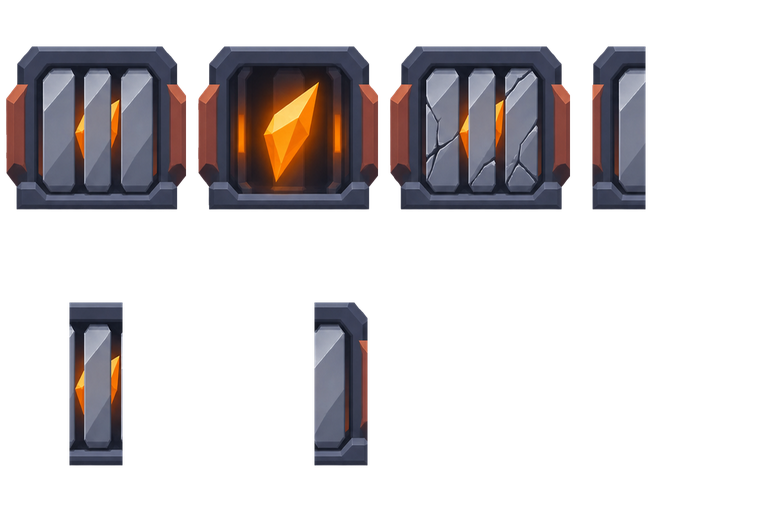
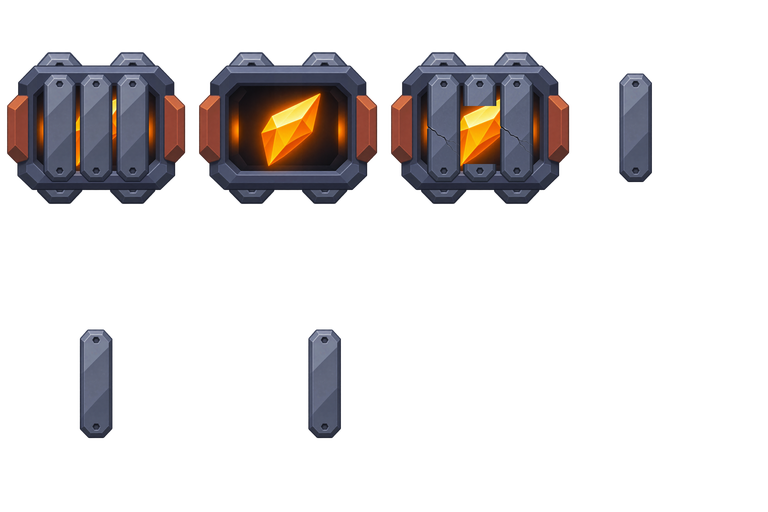
[dev] Forja-Mãe v3 integrada (DF100–DF108, DF110–DF112) e paliativos da v2 retirados
Verificação (tools/auditar_forja_v3.py, relatório em docs/revisao_geral/auditoria_forja_v3.md):
SHA dos 12 mestres e dos 12 WebP confere com o atlas e os ENTREGA_v3; medidas e grades certas;
54 quadros ocupados e 17 células vazias, como a entrega diz; os cinco vãos do DF100 têm alfa zero
nas medidas exatas e as constantes LENS/CHEST/HATCH/GRATE já batiam com o mundo calculado;
cada *_jogo_v3.webp é o mestre reduzido a 50 % (diferença 0). Ressalvas: DF107 quadros 1 e 2 quase
iguais (a luz do aviso tem ~4 px no jogo) e DF108 com pulsos 1/2/6 e 3/4/5 muito parecidos.

Integração:
- import_deserto_v2_folhas.py usa os _v3.png da Forja (mesmas grades da v2);
- DF103: rodas em cima na v3, sai o flip_v do carrinho;
- DF102: peito na escala da entrega (400/358) e as placas soltas na origem do peito, sem o
  afastamento extra de ±26 px (as células da v3 já trazem o afastamento);
- DF105: topo real do bloco a (198 − 96) × K = 22 px da junta (era 35: o Autômato afundava 13 px
  na chapa); a âncora do Ímã fica na placa ciano da arte (junta + 11,6) e o puxão termina 11,6 px
  acima dela (GrappleHook.drop), pousando no bloco como antes;
- DF106: núcleo no encaixe (junta + 4, escala 1) e área de dano de 110 × 60 de junta − 36 a + 24,
  para o rebite de quem está de pé no bloco continuar acertando à queima-roupa;
- DF107: usa o quadro 'abrindo' antes do 'aberta'; a tinta vermelha do aviso fica (paliativo,
  pedido REV-03), porque a luz da v3 é pequena demais na escala do jogo;
[…]

Changed region(s): [[0.0, 0.0625, 0.875, 0.4375], [0.0625, 0.5625, 0.1875, 0.9375], [0.375, 0.5625, 0.5, 0.9375]]

diff --git a/tools/import_deserto_v2_folhas.py b/tools/import_deserto_v2_folhas.py
@@ -9,6 +9,9 @@ uso: python tools/import_deserto_v2_folhas.py
 - Peças das máquinas (DF222–DF225): cópia byte a byte para assets/deserto/v2/ (2×, escala 0,5 no jogo).
 - O SHA-256 é conferido contra o ENTREGA_v2 quando ele traz o valor; sem valor, o script avisa.
 - Sempre o arquivo _v2 quando existe; DF64b e DF69c só chegaram com o nome sem sufixo.
+- Forja-Mãe (DF100–DF108, DF110–DF112): a v3 (main ef2d879, 26/11/2026), com o nome completo `_v3.png`
+  (o import_fase2.py antigo pega o primeiro PNG com o prefixo e não serve para a Forja). A redução a 50 %
+  dá o mesmo resultado que os *_jogo_v3.webp da entrega (conferido por tools/auditar_forja_v3.py).
 """
 import hashlib
 import re
@@ -35,11 +38,11 @@ FOLHAS = {
     "DF94": "DF94_automato_arranque_v2.png", "DF95": "DF95_automato_dano_v2.png",
     "DF96": "DF96_automato_derrota_v2.png", "DF97": "DF97_automato_braco_v2.png", "DF98": "DF98_feixe_ima_v2.png",
     "DF99": "DF99_pulso_magnetico_v2.png",
-    "DF100": "DF100_forja_corpo_v2.png", "DF101": "DF101_forja_lente_v2.png", "DF102": "DF102_forja_peito_v2.png",
-    "DF103": "DF103_forja_carrinho_v2.png", "DF104": "DF104_forja_segmento_v2.png",
-    "DF105": "DF105_forja_martelo_v2.png", "DF106": "DF106_forja_nucleo_pistao_v2.png",
-    "DF107": "DF107_forja_escotilha_v2.png", "DF108": "DF108_forja_grade_v2.png", "DF110": "DF110_forja_feixe_v2.png",
-    "DF111": "DF111_forja_carga_lente_v2.png", "DF112": "DF112_forja_explosao_nucleo_v2.png",
+    "DF100": "DF100_forja_corpo_v3.png", "DF101": "DF101_forja_lente_v3.png", "DF102": "DF102_forja_peito_v3.png",
+    "DF103": "DF103_forja_carrinho_v3.png", "DF104": "DF104_forja_segmento_v3.png",
+    "DF105": "DF105_forja_martelo_v3.png", "DF106": "DF106_forja_nucleo_pistao_v3.png",
+    "DF107": "DF107_forja_escotilha_v3.png", "DF108": "DF108_forja_grade_v3.png", "DF110": "DF110_forja_feixe_v3.png",
+    "DF111": "DF111_forja_carga_lente_v3.png", "DF112": "DF112_forja_explosao_nucleo_v3.png",
 }
 OBJETOS = {"DF210_objetos": ("DF210", "DF210_objetos.png"), "DF210_coletaveis": ("DF210", "DF210_coletaveis.png"),
            # a ponta da DF98 v2 é um ímã pequeno, não a garra de luz: o jogo usa a ponta da v1 até a correção

diff --git a/docs/revisao_geral/auditoria_forja_v3.md b/docs/revisao_geral/auditoria_forja_v3.md
@@ -1,0 +1,45 @@
+# Auditoria da Forja-Mãe v3 (gerada por `tools/auditar_forja_v3.py`)
+
+Total: 54 quadros ocupados e 17 células vazias (a entrega diz 54 e 17).
+
+| ID | medidas | SHA mestre (atlas / ENTREGA) | quadros | WebP = mestre/2 | borda | soltos | quadros iguais | dif. entre quadros seguidos |
+|---|---|---|---|---|---|---|---|---|
+| DF100 | 2048x2048 | ok / ok | 1 ocup. · 0 vaz. | ok · rgb 0.0 · alfa 0.00 · desloc 0.00 | — | — | — | [] |
+| DF101 | 1536x1024 | ok / ok | 4 ocup. · 4 vaz. | ok · rgb 0.0 · alfa 0.00 · desloc 0.00 | — | — | — | [9.29, 17.45, 9.44] |
+| DF102 | 1536x1024 | ok / ok | 6 ocup. · 2 vaz. | ok · rgb 0.0 · alfa 0.00 · desloc 0.00 | — | — | — | [24.72, 18.67, 108.51, 133.45, 133.45] |
+| DF103 | 1024x512 | ok / ok | 1 ocup. · 0 vaz. | ok · rgb 0.0 · alfa 0.00 · desloc 0.00 | — | — | — | [] |
+| DF104 | 1024x512 | ok / ok | 1 ocup. · 0 vaz. | ok · rgb 0.0 · alfa 0.00 · desloc 0.00 | — | — | — | [] |
+| DF105 | 2048x1024 | ok / ok | 4 ocup. · 0 vaz. | ok · rgb 0.0 · alfa 0.00 · desloc 0.00 | — | — | — | [9.23, 24.33, 16.33] |
+| DF106 | 1536x1024 | ok / ok | 3 ocup. · 5 vaz. | ok · rgb 0.0 · alfa 0.00 · desloc 0.00 | — | — | — | [18.43, 42.33] |
+| DF107 | 1536x1024 | ok / ok | 4 ocup. · 4 vaz. | ok · rgb 0.0 · alfa 0.00 · desloc 0.00 | — | — | 1=2 (0.08) | [0.49, 9.98, 10.76] |
+| DF108 | 1536x1024 | ok / ok | 8 ocup. · 0 vaz. | ok · rgb 0.0 · alfa 0.00 · desloc 0.00 | — | — | 1=2 (0.47), 1=6 (0.32), 3=5 (0.40), 4=5 (0.29) | [2.39, 3.42, 2.74, 1.47, 4.12, 26.19, 29.13] |
+| DF110 | 1024x512 | ok / ok | 8 ocup. · 0 vaz. | ok · rgb 0.0 · alfa 0.00 · desloc 0.00 | — | — | — | [18.33, 17.19, 17.19, 151.12, 81.54, 82.28, 79.03] |
+| DF111 | 1536x1024 | ok / ok | 6 ocup. · 2 vaz. | ok · rgb 0.0 · alfa 0.00 · desloc 0.00 | — | — | — | [75.88, 57.35, 69.4, 38.06, 75.0] |
+| DF112 | 1536x1024 | ok / ok | 8 ocup. · 0 vaz. | ok · rgb 0.0 · alfa 0.00 · desloc 0.00 | — | 4:5 [(230, 134), (306, 136), (50, 156), (83, 365), (294, 369)]; 5:2 [(278, 149), (109, 363)]; 6:5 [(262, 167), (111, 171), (112, 338), (284, 338), (260, 342)]; 7:1 [(271, 293)] | — | [101.2, 91.46, 75.08, 85.76, 57.27, 81.29, 103.8] |
+
+## Encaixes do corpo DF100
+
+| vão | centro (arte) | pedido | medida real no centro | alfa ≠ 0 dentro | moldura opaca em volta | centro no mundo |
+|---|---|---|---|---|---|---|
+| lente | [1024, 900] | 360 | (360, 360) | 0.00 % | 100 % | [7770.0, 532.89] |
+| peito | [1024, 1330] | (420, 360) | (420, 360) | 0.00 % | 100 % | [7770.0, 624.91] |
+| escotilha_esquerda | [640, 820] | (240, 160) | (240, 160) | 0.00 % | 100 % | [7687.82, 515.77] |
+| escotilha_direita | [1408, 820] | (240, 160) | (240, 160) | 0.00 % | 100 % | [7852.18, 515.77] |
+| grade | [1024, 1820] | (700, 240) | (700, 240) | 0.00 % | 100 % | [7770.0, 729.77] |
+
+Constantes atuais de `scripts/forja.gd`: `{'BASE': 'Vector2(7770, 770)', 'LENS': 'Vector2(7770, 533)        # lente Ø 360, centro (1024, 900)', 'CHEST': 'Vector2(7770, 625)       # peito 420 × 360, centro (1024, 1330)', 'HATCH': '[Vector2(7688, 516), Vector2(7852, 516)]    # escotilhas 240 × 160, centros (640, 820) e (1408, 820)', 'GRATE': 'Vector2(7770, 730)       # grade 700 × 240, centro (1024, 1820)'}`
+
+## Problemas por ID
+
+- **DF100**: nenhum problema técnico
+- **DF101**: nenhum problema técnico
+- **DF102**: nenhum problema técnico
+- **DF103**: nenhum problema técnico
+- **DF104**: nenhum problema técnico
+- **DF105**: nenhum problema técnico
+- **DF106**: nenhum problema técnico
+- **DF107**: quadros iguais: 1=2 (0.08)
+- **DF108**: quadros iguais: 1=2 (0.47), 1=6 (0.32), 3=5 (0.40), 4=5 (0.29)
+- **DF110**: nenhum problema técnico
+- **DF111**: nenhum problema técnico
+- **DF112**: pixels soltos: 4:5 [(230, 134), (306, 136), (50, 156), (83, 365), (294, 369)]; 5:2 [(278, 149), (109, 363)]; 6:5 [(262, 167), (111, 171), (112, 338), (284, 338), (260, 342)]; 7:1 [(271, 293)]
